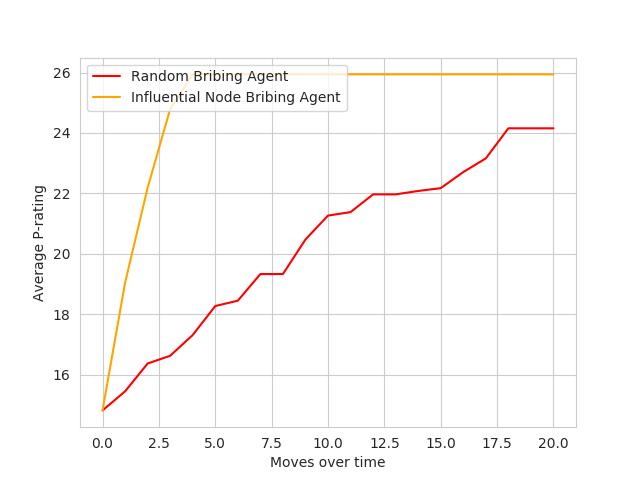
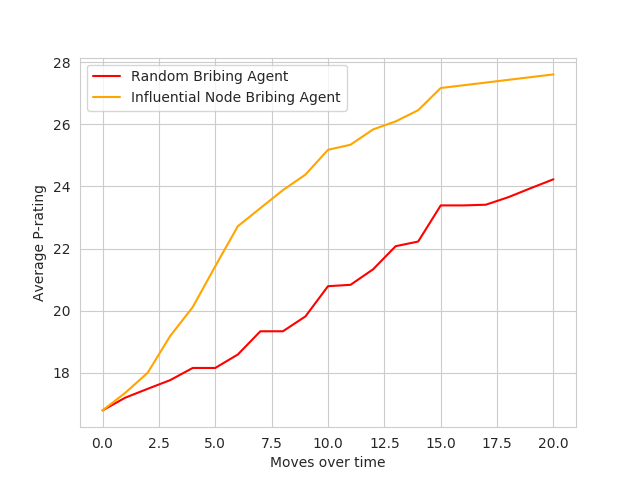
Finished setting up running of single bribing strategy on gui.py

diff --git a/src/gui.py b/src/gui.py
@@ -118,6 +118,12 @@ class GraphFrame(tk.Frame):
         button4 = tk.Button(self, text="Results", command=lambda: self.to_results())
         button4.pack()
 
+        self.txt = tk.StringVar()
+        lbl = tk.Label(self, textvariable=self.txt)
+        lbl.pack()
+        self.txt.set("Average P-Rating: -- \nLast Briber: --")
+
+
     def set_graph(self, graph, briber):
         self.graph = graph
         self.pos = spring_layout(nk2nx(self.graph.graph()))
@@ -166,21 +172,19 @@ class GraphFrame(tk.Frame):
                 linewidth = 3.0
             ))
         self.canvas.draw()
+        avp = str(round(self.graph.eval_graph(), 2))
+        if(last < 0):
+            self.txt.set("Average P-Rating: " + avp + " \nLast Bribed: --")
+        else:
+            self.txt.set("Average P-Rating: " + avp + " \nLast Bribed: " + str(last))
 
     def next_bribe(self):
         c = self.briber.next_bribe()
-        print(c)
         self.display_graph(last=c)
         avp = self.graph.eval_graph()
         self.results.append(avp)
-        self.ax.annotate(
-            "Average P-Rating: " + str(avp) + "\n" +
-            "Last bribed " + str(c),
-            xy = (-0.5, 1.2),
-            bbox=dict(boxstyle="round", fc="w", ec="0.5", alpha=0.9),
-            clip_on=False
-        )
         self.canvas.draw()
+
 
 
     def show_influential(self):

diff --git a/src/bribery/oneMoveINB.py b/src/bribery/oneMoveINB.py
@@ -3,7 +3,7 @@ from graphGenerator import RatingGraph
 
 # On each move will bribe the most influential node
 class OneMoveINB(Briber):
-    def __init__(self, g, u0, k=0.2):
+    def __init__(self, g, u0, k=0.01):
         super().__init__(g, u0)
         # Make sure that k is set such that there are enough resources left to
         # actually bribe people.
@@ -28,9 +28,12 @@ class OneMoveINB(Briber):
     #returns node bribed number
     def next_bribe(self):
         self.get_influencers()
-        (r, c) = self.influencers[0]
-        self.bribe(c, self.max_rating - self.g.get_rating(c))
-        return c
+        if self.influencers != []:
+            (r, c) = self.influencers[0]
+            self.bribe(c, self.max_rating - self.g.get_rating(c))
+            return c
+        else:
+            return 0
 
 def main():
     rg = RatingGraph()
